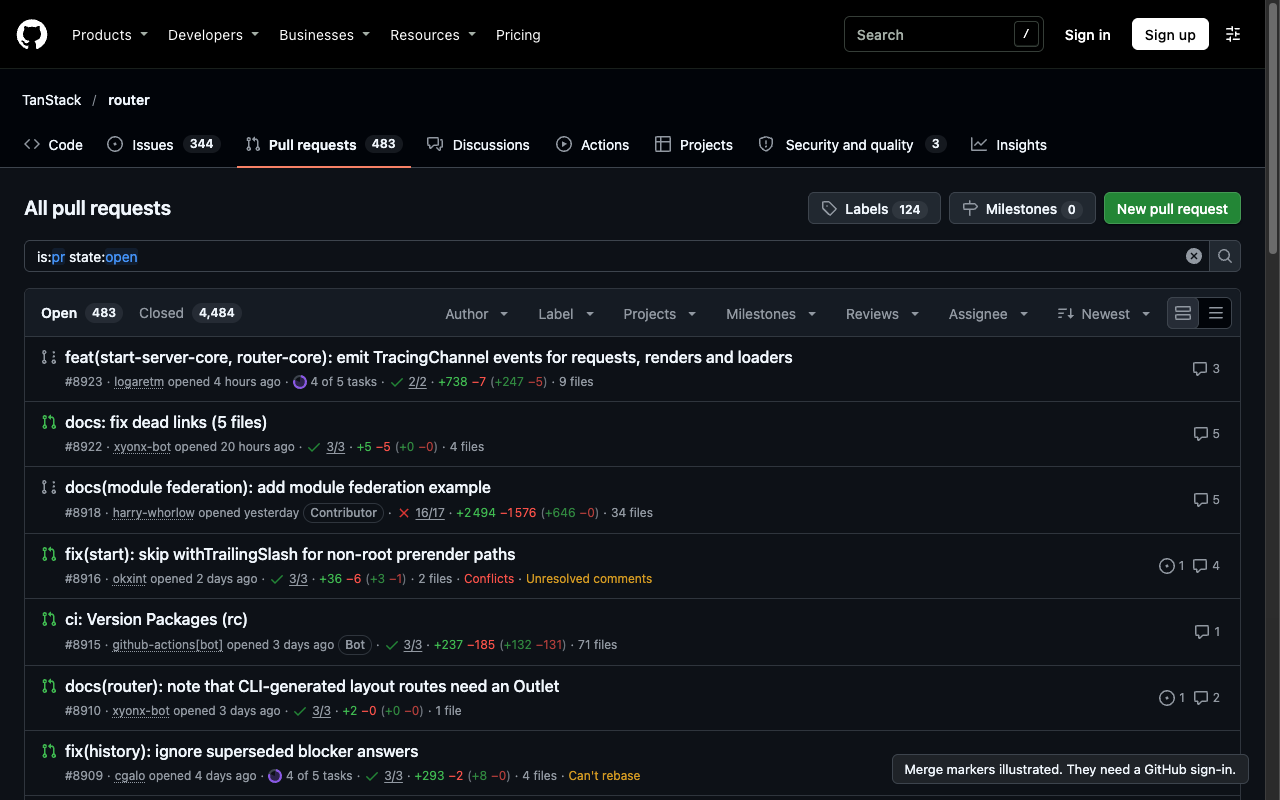
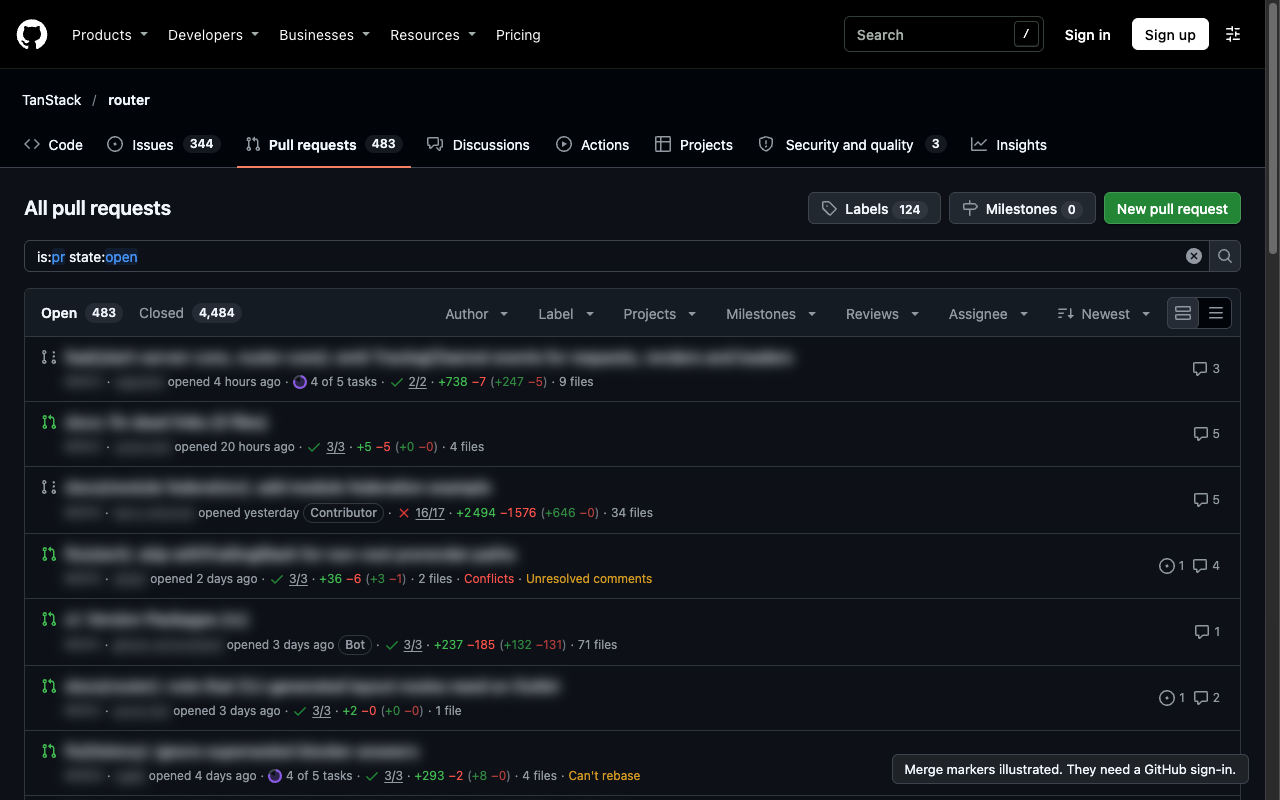
chore: blur pull request titles and authors in the list screenshot

Changed region(s): [[0.0312, 0.4375, 0.625, 0.8125], [0.0312, 0.8438, 0.4375, 1.0]]

diff --git a/docs/store/listing.md b/docs/store/listing.md
@@ -190,8 +190,10 @@ Privacy policy URL: https://github.com/Mnigos/detent/blob/main/PRIVACY.md
 extension, in a fresh profile, signed out of GitHub, on public TanStack/router pages, dark theme, steps
 named from the file structure. Merge markers need a signed-in GitHub session, so for screenshot 2 the script
 fills in the list's empty `user-login` tag and stubs the merge box answers in the service worker: the
-Conflicts, Can't rebase and Unresolved comments markers on those rows are simulated. Priority Review has no
-screenshot because GitHub serves the new Changes page, where it lives, only to signed-in users.
+Conflicts, Can't rebase and Unresolved comments markers on those rows are simulated. The script blurs the
+pull request titles, numbers and authors in that shot, so the simulated states name no real pull request or
+person. Priority Review has no screenshot because GitHub serves the new Changes page, where it lives, only
+to signed-in users.
 
 ## Submit
 
